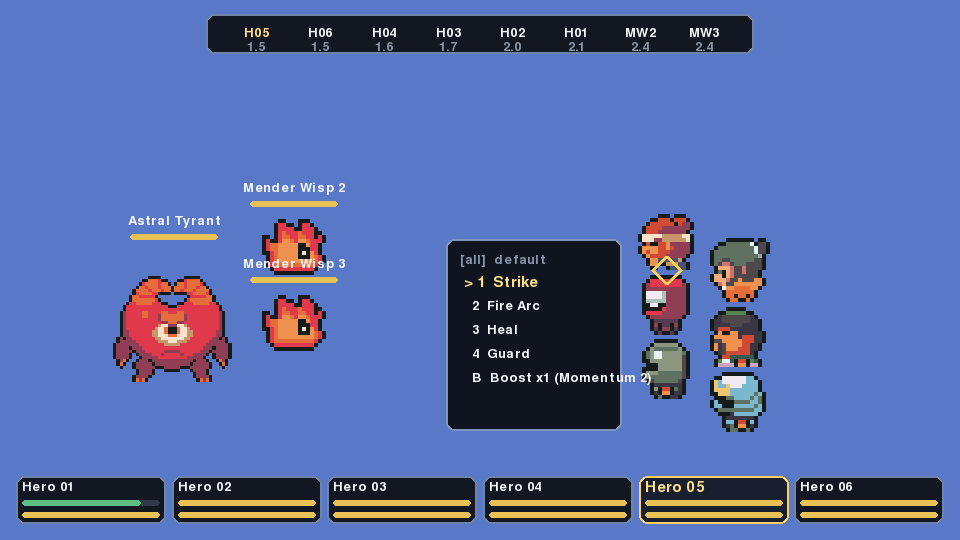
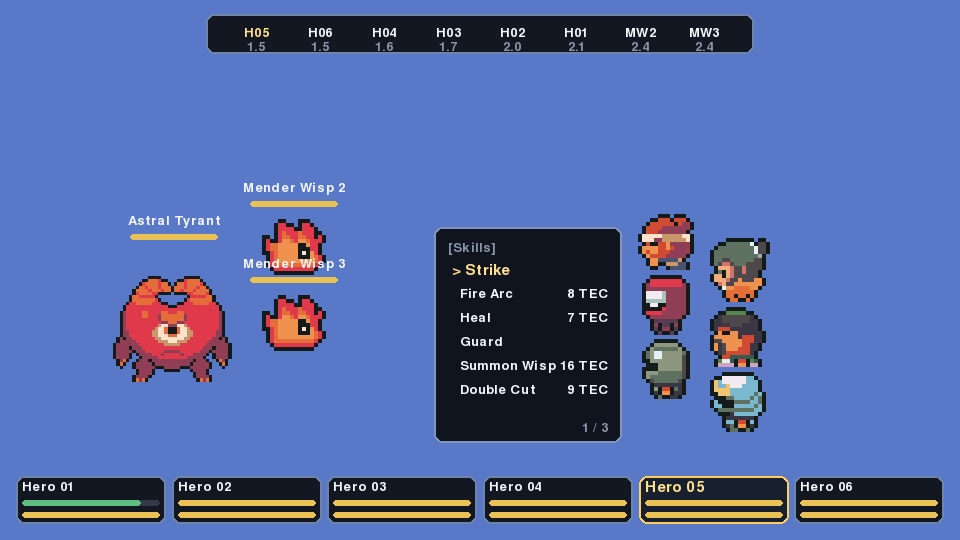
docs(audits): D20-6 Octopath-style demo - real machine item 44, replay of 23 items, decision log

Changed region(s): [[0.4375, 0.4148, 0.6875, 0.8296], [0.6875, 0.4741, 0.7188, 0.5333], [0.5938, 0.5333, 0.625, 0.5926]]

diff --git a/docs/audits/REAL_MACHINE_VALIDATION.md b/docs/audits/REAL_MACHINE_VALIDATION.md
@@ -3,7 +3,7 @@
 D14 #4. Run on a real macOS machine with real windows and devices: no dummy SDL drivers and no offscreen Qt. Each item is **PASS**, **FAIL**, **BLOCKED** (a required device or permission is missing) or **NOT EXECUTED** (needs a person). Nothing is marked PASS without a measurement.
 
 - **Machine:** macOS 27.0.1 arm64, Apple M5 GPU (OpenGL 4.1 Metal), Python 3.13.15, pygame-ce 2.5.8 (SDL 2.32.10), PySide6.
-- **Run:** 2026-10-12 (full re-run in D20; items 11–19 added in D17 Phase 6, 20–28 in D18, 29–35 in D19, 36–43 in D20). macOS Low Power Mode was on during this run (`pmset -g`: `lowpowermode 1`); see item 25.
+- **Run:** 2026-10-12 (full re-run in D20; items 11–19 added in D17 Phase 6, 20–28 in D18, 29–35 in D19, 36–44 in D20). macOS Low Power Mode was on during this run (`pmset -g`: `lowpowermode 1`); see item 25.
 - **Command:** `python scripts/real_machine_validation.py docs/audits/evidence/real_machine`
 - **Raw results:** [`evidence/real_machine/results.json`](evidence/real_machine/results.json). Profile: [`battle_profile.json`](evidence/real_machine/battle_profile.json).
 
@@ -58,8 +58,11 @@ D14 #4. Run on a real macOS machine with real windows and devices: no dummy SDL 
 | 41 | Menu icons (AST-07) | **PASS** | Real cocoa window, real key events (Esc, Tab): the shop, the Items tab and the Equipment tab draw the item / equipment icons (36 CC0 icons in one atlas, each an `icon` asset with a region). Equipment carried in the bag shows its name and icon. [shop](evidence/real_machine/icons_shop.png), [items](evidence/real_machine/icons_items.png), [equipment](evidence/real_machine/icons_equipment.png) |
 | 42 | Particle effects in the field and in battle (VFX-01) | **PASS** | Two entity emitters (fire on the boss, sparkle following the player) plus a `PLAY_VFX` heal one-shot for 3 s: about 63 particles per frame, 58.8–59.2 fps on pygame and on the ModernGL presenter (Low Power Mode on). Battle: every action timeline's VFX beat cues a particle burst; 80 particles drawn on the target. This run found and fixed a defect: the battle cue is replaced every frame as it ages, so the burst restarted every frame and stayed a dot; cues are now keyed by sequence, cue and member, with a regression test. [field](evidence/real_machine/particles_field_moderngl.png), [battle](evidence/real_machine/particles_battle.png). Whether it looks good is M10. |
 | 43 | Particle Effects editor (VFX-01) | **PASS** | Cocoa editor: new effect from a preset, values changed in the form, the live preview running on its own timer (59 live particles), Apply / Undo, the emitter's Inspector choice, usage list; the project file is untouched. [editor](evidence/real_machine/editor_particles.png) |
+| 44 | Octopath-style demo (BTL-02 / BTL-03 / GP-02) | **PASS** | `reference_projects/octopath_demo` in a real cocoa window, real key events through the new battle command menu: Boost x2 by Right and a chosen target (the attack landed twice), a divine skill spending 3 boost points with a 120-particle burst, concocting healing herb + fire dust into a Fire Bomb on every enemy, then the battle won by Enter presses (enemies worn down in memory to keep it short). The demo's 7 session tests also run in the real-window replay (`replay_BTL-03`). [menu](evidence/real_machine/octo_menu.png), [target](evidence/real_machine/octo_target.png), [divine](evidence/real_machine/octo_divine.png), [concoct](evidence/real_machine/octo_concoct.png). Whether it plays well is for a person. |
 
 **Full re-run 2026-10-11 (D18):** 29 PASS, 3 NOT EXECUTED (M1, M3, M4), 1 BLOCKED (controller, M2). An earlier commit message said "34 PASS"; that was a miscount — the results file is authoritative.
+
+**Update 2026-10-12 (D20-6, Octopath demo):** `octopath_demo` (item 44) and `b_items_replay` were run again after the demo; the other results are from the full re-run below. `results.json` now holds 70 results: **65 PASS, 3 NOT EXECUTED, 1 BLOCKED, 1 FAIL** (item 25, deferred by the user). The replay covers 23 items, all PASS in cocoa.
 
 **Full re-run 2026-10-12 (D20, after AST-07 and VFX-01):** `results.json` holds 68 results: **63 PASS, 3 NOT EXECUTED (M1, M3, M4), 1 BLOCKED (controller, M2), 1 FAIL (item 25, weather load, Low Power Mode still on: 35.5 fps).** `editor_workflows_gui` lost keyboard focus to an earlier check's window again; the check now re-activates the editor and waits up to 2 s for focus, and passed when rerun after `menus_more` and `battle_no_art`. The results file records that rerun with a note.
 

diff --git a/docs/audits/SPEC_TRACEABILITY_MATRIX.md b/docs/audits/SPEC_TRACEABILITY_MATRIX.md
@@ -90,8 +90,8 @@ Class、介面、stub、mock 不算實作證據。只有單元測試不算整合
 | ID | 來源 | 優先 | 需求 | 程式碼證據 | 測試 | 整合 | 狀態 | 缺口 | Batch |
 |---|---|---|---|---|---|---|---|---|---|
 | BTL-01 | S§19 | Eventual | 隊伍／敵群、回合排程、速度順序 | `rpg/battle.py`、`battle_scheduler.py` | UT | RM（`gameplay_systems_real_window`：四人隊伍 vs boss＋2 隨從，排程器決定回合，break 推遲回合） | **A** | — | CB3 |
-| BTL-02 | S§19 | Eventual | 多段攻擊、反擊／追擊／反應、弱點／抗性、break | `rpg/action_sequences.py`、`reactions.py`、`interactions.py`、`gauge_composition.py` | UT | RM（D20 `replay_BTL-02`：DOT 固定／套倍率、雙武器弱點與抗性、破盾 ×2、Boost 連擊／增幅、副職業、逐回合加重的劇毒） | **A** | — | CB3、CB-BR1、D20 |
-| BTL-03 | S§19 | Eventual | 自訂資源、回合操作、boss 階段、戰鬥事件、戰鬥 AI | `rpg/battle_resources.py`、`enemy_ai.py` `BossPhaseDefinition` | UT | RM（`gameplay_systems_real_window`：stagger／rage／boost 資源、break 延後回合、boss 多階段；`replay_EVT-03` battle events；`battle_frame_pacing` 敵方 AI 回合） | **A** | — | CB3、D19 |
+| BTL-02 | S§19 | Eventual | 多段攻擊、反擊／追擊／反應、弱點／抗性、break | `rpg/action_sequences.py`、`reactions.py`、`interactions.py`、`gauge_composition.py` | UT | RM（D20 `replay_BTL-02`：DOT 固定／套倍率、雙武器弱點與抗性、破盾 ×2、Boost 連擊／增幅、副職業、逐回合加重的劇毒）；D20-6 `octopath_demo_real_window`（可遊玩的八方旅人式 demo，以按鍵操作） | **A** | — | CB3、CB-BR1、D20 |
+| BTL-03 | S§19 | Eventual | 自訂資源、回合操作、boss 階段、戰鬥事件、戰鬥 AI | `rpg/battle_resources.py`、`enemy_ai.py` `BossPhaseDefinition` | UT | RM（`gameplay_systems_real_window`：stagger／rage／boost 資源、break 延後回合、boss 多階段；`replay_EVT-03` battle events；`battle_frame_pacing` 敵方 AI 回合）；D20-6 `octopath_demo_real_window`（可遊玩的八方旅人式 demo，以按鍵操作） | **A** | — | CB3、D19 |
 | BTL-04 | S§19、§29 | Core | 戰鬥 UI／演出（HUD、時間軸、結果、選單、動畫、VFX、camera、audio、hit-stop、多段、結果轉場） | `runtime/battle_presentation_adapters.py` Canonical（動畫 sprite、motion sequence：動畫／VFX／audio／camera／flash、KO 同步、捕捉指令、側視 staging）；`runtime/battle_visuals.py` | UT（`test_canonical_battle_presentation.py`） | HI + RM（animation_smoothness、frame_pacing PASS；D15） | **B** | hit-stop 已接（D17）；可聽音訊、實體按鍵、手把未驗證（M1–M3） | D17-6 |
 | RPG-01 | S§21 | Core | 背包：可堆疊／唯一、分類、容量、關鍵道具、消耗品、貨幣 | `rpg/items.py` `Inventory` | UT | RM（D20 `replay_RPG-01`：專案容量規則套用到事件與商店） | **A** | — | CB11、D20 |
 | RPG-02 | S§21 | Core | 裝備：欄位、需求、modifier、tags、passives、set bonus、熟練度、升級 | `rpg/items.py`、`equipment_growth.py`、`resolved_build.py`；`rpg/equipment_sets.py`（件數門檻的 modifier／tag／能力） | UT | RM（D19 replay `replay_RPG-02`）＋`gameplay_systems_real_window`（裝備授予技能） | **A** | — | CB11、D19 |

diff --git a/docs/audits/DECISION_LOG.md b/docs/audits/DECISION_LOG.md
@@ -789,3 +789,43 @@ autofix 原本沒有產品入口，已在 D20-4 接上編輯器。animated_text 
 ### 需要你決定
 1. ~~關閉低耗電模式後重跑 weather load~~：**使用者決定（2026-10-12）先不測。** 項目 25 仍記為 FAIL（低耗電模式；程式未回歸），等之後再重跑 `--only vfx`。
 2. ~~AST-07、VFX-01~~：已依使用者決定完成（D20-5）。
+
+### D20-6 — 八方旅人式戰鬥 demo（`6fb8d9c`、`524b8cd`）
+使用者問 demo 是否完成。檢查後的結論是：引擎能力大致都有，但缺幾項功能，也沒有可遊玩的專案。這次全部補齊，並做成可遊玩的 demo。
+
+**引擎（全部是選填資料，不設定就不寫入）：**
+- 技能：
+  - `battle_costs`：奧義消耗 3 BP；
+  - `hits`：多段攻擊，每段可以有不同的傷害類型和倍率；
+  - `battle_resource_gains`：分 BP 給隊友；
+  - `commands`：使用後執行世界指令，例如叫出寵物；
+  - `concoct_station`：在戰鬥中調和；
+  - `apply_states`：施加或解除狀態。
+- 物品：`battle_ability`，在戰鬥中使用時發動對應的技能。
+- 敵人用技能時也會套用上述效果。
+- 戰鬥時登錄專案的全部技能，物品和召喚物都能出手。
+- 狀態的能力值修正（攻擊提升、防禦下降）現在會進入傷害公式。這原本是引擎缺口：修正值一直沒有被使用。
+- 戰鬥資源 `subject_maximum`：每個敵人有自己的護盾數。破盾門檻 `reset_to_maximum`：破盾後護盾回到該敵人自己的上限。
+- `ability_unavailable` 會說明技能不能用的原因。被跳過的回合會記錄到戰鬥紀錄。
+
+**戰鬥 UI（`runtime/battle_commands.py`）：**
+- 列出全部技能，可切換 Skills／Items。
+- 左右鍵調 Boost，選擇目標，選擇調和材料，Esc 返回。
+- 不能用的技能會反灰，並顯示原因。
+- 敵人下方顯示護盾數和弱點（未揭露時顯示 ?），也會顯示 BROKEN／SLEEP；角色下方顯示 BP 點數和狀態。
+- 選單寬度依內容調整。
+
+**編輯器：** 資料樹右鍵可以「Add Entry／Remove Entry／Add Field」，hits、commands、狀態、BP 消耗等欄位都能在編輯器裡編輯。
+
+**Demo（`reference_projects/octopath_demo`）：**
+- 以參考專案的 CC0 素材建置。
+- 4 位旅人，各有主職和副職，各帶兩種武器；另有一隻寵物。
+- 3 個敵人，各有不同的護盾數和弱點。
+- 4 個奧義、需要兩種武器的 Twin Fang、多段攻擊和多屬性技能、Donate BP、調和配方 4 種，以及中毒、睡眠、沉默、攻擊提升、防禦下降、解除異常。
+- 自動化測試 9 項，其中一項是全程用鍵盤打贏戰鬥。
+- 實機項目 44 為 PASS；demo 測試也在 replay 中跑過。
+
+**驗證結果：** 自動化測試 1987 passed；實機 65 PASS、3 NOT EXECUTED、1 BLOCKED、1 FAIL（weather load，使用者決定先不重跑）。
+
+**矩陣：** 計數不變（BTL-02／BTL-03／GP-02 原本就是 A，這次補上 demo 的證據）。
+

diff --git a/docs/audits/FINAL_CLOSURE_AUDIT.md b/docs/audits/FINAL_CLOSURE_AUDIT.md
@@ -11,8 +11,8 @@
 | C 部分實作 | 1 | **1**（TPL-01，Eventual） |
 | D 未實作 | 2 | **2**（EDT-17、EDT-18，Eventual） |
 | E 取消 | 2 | 2 |
-| 自動化測試 | 2180 passed | **1970 passed**（D20-2 退役 35 個模組時移除只測退役程式碼的測試） |
-| 實機檢查（`results.json`） | 49 PASS／3 NE／1 BLOCKED／0 FAIL | **63 PASS／3 NOT EXECUTED／1 BLOCKED／1 FAIL** |
+| 自動化測試 | 2180 passed | **1987 passed**（D20-2 退役 35 個模組時移除只測退役程式碼的測試） |
+| 實機檢查（`results.json`） | 49 PASS／3 NE／1 BLOCKED／0 FAIL | **65 PASS／3 NOT EXECUTED／1 BLOCKED／1 FAIL** |
 
 **結論：** 功能面已完成，所有 Core 需求都已實作，剩下的 C／D 全是 SPEC 原文的 Eventually／Potential 項目。
 
@@ -33,6 +33,7 @@
   - 表單標籤改在欄位上方，並依寬度排出最多欄數。
   - Asset 清單新增 Auto-fix Image 和 Pack into Atlas。
 - **B 項實機證據：** 13 項 B→A（實機項目 36–40）。過程中修正 2 個在實機截圖才看得到的缺陷。
+- **八方旅人式戰鬥 demo（D20-6）：** `reference_projects/octopath_demo` 可直接遊玩。新增完整的戰鬥指令選單，畫面上會顯示護盾、弱點和 BP；奧義、多段多屬性攻擊、Donate BP、召喚寵物、調和、狀態效果都由資料設定。實機項目 44。
 - **物品／裝備圖示（AST-07，B→A）與粒子特效（VFX-01）：** 實機項目 41–43；戰鬥粒子每幀重啟的缺陷由實機截圖發現並修正。
 
 ### D19 變更（保留）
